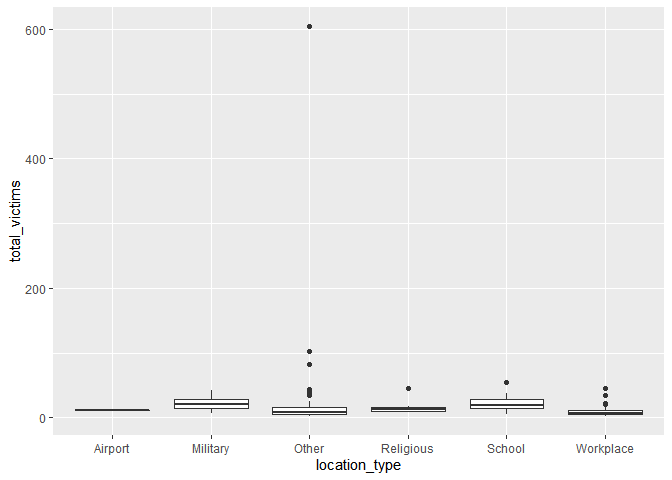
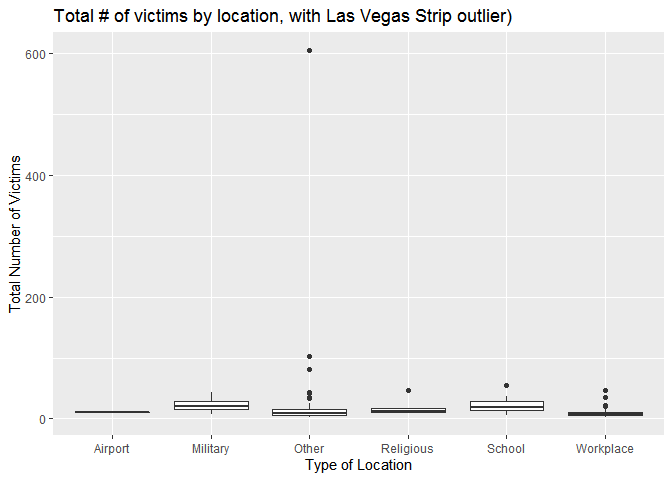
Fixed written answers, tables and graphs.

diff --git a/mass-shootings.md b/mass-shootings.md
@@ -8,14 +8,14 @@ Benjamin Soltoff
 library(tidyverse)    # load tidyverse packages, including ggplot2
 ```
 
-    ## -- Attaching packages ----------------------------------------------------------- tidyverse 1.3.0 --
+    ## -- Attaching packages ---------------------------------------------------------- tidyverse 1.3.0 --
 
     ## v ggplot2 3.3.2     v purrr   0.3.4
     ## v tibble  3.0.3     v dplyr   1.0.2
     ## v tidyr   1.1.2     v stringr 1.4.0
     ## v readr   1.3.1     v forcats 0.5.0
 
-    ## -- Conflicts -------------------------------------------------------------- tidyverse_conflicts() --
+    ## -- Conflicts ------------------------------------------------------------- tidyverse_conflicts() --
     ## x dplyr::filter() masks stats::filter()
     ## x dplyr::lag()    masks stats::lag()
 
@@ -62,52 +62,57 @@ mass_shootings
 
 ``` r
 case_by_year <- count(mass_shootings, year)
-kable(case_by_year)
+kable(case_by_year, col.names = c("Year", "# of Shootings"))
 ```
 
-| year |  n |
-| ---: | -: |
-| 1982 |  1 |
-| 1984 |  2 |
-| 1986 |  1 |
-| 1987 |  1 |
-| 1988 |  1 |
-| 1989 |  2 |
-| 1990 |  1 |
-| 1991 |  3 |
-| 1992 |  2 |
-| 1993 |  4 |
-| 1994 |  1 |
-| 1995 |  1 |
-| 1996 |  1 |
-| 1997 |  2 |
-| 1998 |  3 |
-| 1999 |  5 |
-| 2000 |  1 |
-| 2001 |  1 |
-| 2003 |  1 |
-| 2004 |  1 |
-| 2005 |  2 |
-| 2006 |  3 |
-| 2007 |  4 |
-| 2008 |  3 |
-| 2009 |  4 |
-| 2010 |  1 |
-| 2011 |  3 |
-| 2012 |  7 |
-| 2013 |  5 |
-| 2014 |  4 |
-| 2015 |  7 |
-| 2016 |  6 |
-| 2017 | 11 |
-| 2018 | 12 |
-| 2019 |  7 |
+| Year | \# of Shootings |
+| ---: | --------------: |
+| 1982 |               1 |
+| 1984 |               2 |
+| 1986 |               1 |
+| 1987 |               1 |
+| 1988 |               1 |
+| 1989 |               2 |
+| 1990 |               1 |
+| 1991 |               3 |
+| 1992 |               2 |
+| 1993 |               4 |
+| 1994 |               1 |
+| 1995 |               1 |
+| 1996 |               1 |
+| 1997 |               2 |
+| 1998 |               3 |
+| 1999 |               5 |
+| 2000 |               1 |
+| 2001 |               1 |
+| 2003 |               1 |
+| 2004 |               1 |
+| 2005 |               2 |
+| 2006 |               3 |
+| 2007 |               4 |
+| 2008 |               3 |
+| 2009 |               4 |
+| 2010 |               1 |
+| 2011 |               3 |
+| 2012 |               7 |
+| 2013 |               5 |
+| 2014 |               4 |
+| 2015 |               7 |
+| 2016 |               6 |
+| 2017 |              11 |
+| 2018 |              12 |
+| 2019 |               7 |
 
 ## Generate a bar chart that identifies the number of mass shooters associated with each race category. The bars should be sorted from highest to lowest.
 
 ``` r
 ggplot(mass_shootings, aes(x = fct_infreq(race))) +
-  geom_bar()
+  geom_bar() +
+  labs(
+    title = "Number of Mass Shooters per Race",
+    x = "Race",
+    y = "Number of Mass Shooters"
+    )
 ```
 
 ![](mass-shootings_files/figure-gfm/unnamed-chunk-3-1.png)<!-- -->
@@ -116,7 +121,12 @@ ggplot(mass_shootings, aes(x = fct_infreq(race))) +
 
 ``` r
 ggplot(mass_shootings, aes(x = location_type, y = total_victims)) +
-  geom_boxplot()
+  geom_boxplot() +
+  labs(
+    title = "Total # of victims by location, with Las Vegas Strip outlier)",
+    x = "Type of Location",
+    y = "Total Number of Victims"
+  )
 ```
 
 ![](mass-shootings_files/figure-gfm/unnamed-chunk-4-1.png)<!-- -->
@@ -124,7 +134,12 @@ ggplot(mass_shootings, aes(x = location_type, y = total_victims)) +
 ``` r
 shootings_noLVS <- filter(mass_shootings, location != "Las Vegas, NV")
 ggplot(shootings_noLVS, aes(x = location_type, y = total_victims)) +
-  geom_boxplot()
+  geom_boxplot() +
+  labs(
+    title = "Total # of victims by location, without outlier",
+    x = "Type of Location",
+    y = "Total Number of Victims"
+  )
 ```
 
 ![](mass-shootings_files/figure-gfm/unnamed-chunk-4-2.png)<!-- -->
@@ -142,6 +157,9 @@ mass_shootings %>%
     ##   <int>
     ## 1    20
 
+There were 20 white males with prior signs of mental illnes who
+initiated a mass shooting after 2000.
+
 ## Which month of the year has the most mass shootings? Generate a bar chart sorted in chronological order to provide evidence of your answer.
 
 ``` r
@@ -153,7 +171,12 @@ month_levels <- c(
 mass_shootings %>%
 mutate(month = factor(month, levels = month_levels)) %>%
   ggplot(aes(x = month)) +
-  geom_bar()
+  geom_bar() +
+  labs(
+    title = "# of Mass Shootings per Month of the Year",
+    x = "Month",
+    y = "Number of Mass Shootings"
+  )
 ```
 
 ![](mass-shootings_files/figure-gfm/unnamed-chunk-6-1.png)<!-- -->
@@ -167,7 +190,12 @@ June.
 mass_shootings %>%
   filter(race == "White" | race == "Black") %>%
   ggplot(aes(x = race, y = fatalities)) +
-  geom_boxplot()
+  geom_boxplot() +
+  labs(
+    title = "Number of Mass Shooting Fatalities for White and Black Shooters",
+    x = "Race",
+    y = "# of Fatalities"
+  )
 ```
 
 ![](mass-shootings_files/figure-gfm/unnamed-chunk-7-1.png)<!-- -->
@@ -176,12 +204,18 @@ mass_shootings %>%
 mass_shootings %>%
   filter(race == "White" | race == "Latino") %>%
   ggplot(aes(x = race, y = fatalities)) +
-  geom_boxplot()
+  geom_boxplot() +
+  labs(
+    title = "Number of Mass Shooting Fatalities for White and Latino Shooters",
+    x = "Race",
+    y = "# of Fatalities"
+  )
 ```
 
-![](mass-shootings_files/figure-gfm/unnamed-chunk-7-2.png)<!-- --> The
-spread of fatalities caused by White shooters is much bigger than the
-spread caused by Black and Latino shooters.
+![](mass-shootings_files/figure-gfm/unnamed-chunk-7-2.png)<!-- -->
+
+The spread of fatalities caused by White shooters is much bigger than
+the spread caused by Black and Latino shooters.
 
 ## Are mass shootings with shooters suffering from mental illness different from mass shootings with no signs of mental illness in the shooter? Assess the relationship between mental illness and total victims, mental illness and race, and the intersection of all three variables.
 
@@ -189,7 +223,12 @@ spread caused by Black and Latino shooters.
 mass_shootings %>%
   filter(!is.na(prior_mental_illness)) %>%
   ggplot(aes(x = prior_mental_illness, y = total_victims)) +
-  geom_boxplot()
+  geom_boxplot() +
+  labs(
+    title = "Number of Total Victims if Prior Mental Illness",
+    x = "Prior Mental Illness?",
+    y = "# of Total Victims"
+  )
 ```
 
 ![](mass-shootings_files/figure-gfm/unnamed-chunk-8-1.png)<!-- -->
@@ -200,7 +239,12 @@ mass_shootings %>%
   ggplot(aes(x = race)) +
   geom_bar() +
   facet_grid(~prior_mental_illness) +
-  coord_flip()
+  coord_flip() +
+  labs(
+    title = "# Mass shooting incidents per race, divided by prior mental illness",
+    x = "# of Mass Shooting Incidents",
+    y = "Race"
+  )
 ```
 
 ![](mass-shootings_files/figure-gfm/unnamed-chunk-8-2.png)<!-- -->
@@ -211,10 +255,27 @@ mass_shootings %>%
   ggplot(aes(x = race, y = total_victims)) +
   geom_boxplot() +
   facet_grid(~prior_mental_illness) +
-  coord_flip()
+  coord_flip() +
+  labs(
+    title = "Distribution of total # of victims per race, divided by prior mental illness",
+    x = "# Total Victims",
+    y = "Race"
+  )
 ```
 
 ![](mass-shootings_files/figure-gfm/unnamed-chunk-8-3.png)<!-- -->
+
+The first graph, a box plot, shows that the shootings in which the
+perpetrator had prior mental illness had a higher number and a higher
+spread of total victims. The second graph, a bar chart, counted the
+shooting cases per race in which the perpetrator had prior mental
+illness, then the cases per race without prior mental illness. For all
+races, the number of shootings after a prior history of mental illness
+was perceptibly higher. For white perpetrators, the difference is even
+more noticeable. The third graph, another box plot, shows that the
+number of total victims is higher when there is history of prior mental
+illness for all races. Again, the difference is more noticeable among
+white perpetrators.
 
 ## Session info
 
@@ -232,7 +293,7 @@ devtools::session_info()
     ##  collate  English_United States.1252  
     ##  ctype    English_United States.1252  
     ##  tz       America/Chicago             
-    ##  date     2020-10-08                  
+    ##  date     2020-10-12                  
     ## 
     ## - Packages -------------------------------------------------------------------
     ##  package     * version date       lib source                        
@@ -313,5 +374,5 @@ devtools::session_info()
     ##  xml2          1.3.2   2020-04-23 [1] CRAN (R 4.0.2)                
     ##  yaml          2.2.1   2020-02-01 [1] CRAN (R 4.0.2)                
     ## 
-    ## [1] C:/Users/Gustavo/Documents/R/win-library/4.0
+    ## [1] C:/Users/Gustavo/OneDrive - The University of Chicago/Documents/R/win-library/4.0
     ## [2] C:/Program Files/R/R-4.0.2/library
